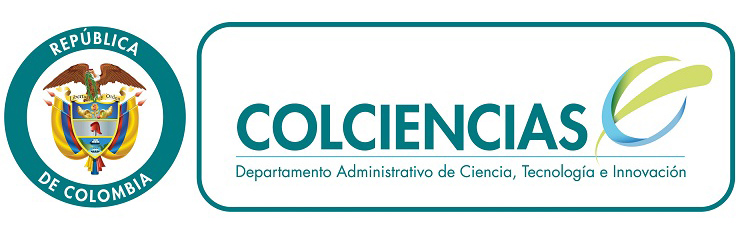
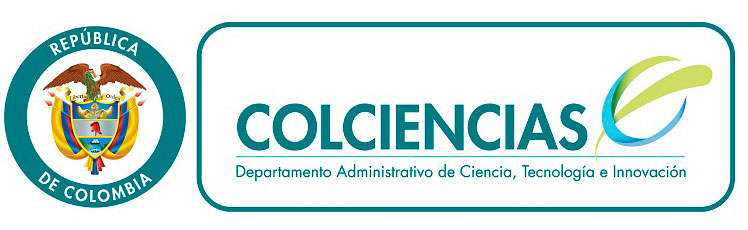
automatización de imagenes pesadas para web

diff --git a/css/personalizado.css b/css/personalizado.css
@@ -472,7 +472,7 @@ font-weight: bold;
 
 .fondo-mundo
 {
-	background-image: url("../img/donde-quieres-estudiar-aunar.png");
+	background-image: url("../img/donde-quieres-estudiar-aunar.jpg");
 	background-size: cover;/*necesario para que se mire en todas las pantallas*/
 
 }

diff --git a/noticias/noticia-1.php b/noticias/noticia-1.php
@@ -44,7 +44,7 @@
         <!-- imagen -->
         
             <div class="col-12">
-              <img class="img-fluid " src="img/noticias/noticia1.png" alt="Noticias Aunar" width="100%">
+              <img class="img-fluid " src="img/noticias/noticia1.jpg" alt="Noticias Aunar" width="100%">
             </div>
         
       </div>
@@ -60,7 +60,7 @@
         <!-- imagen -->
         
             <div class="col-12">
-              <img class="img-fluid " src="img/noticias/noticia2.png" alt="Noticias Aunar" width="100%">
+              <img class="img-fluid " src="img/noticias/noticia2.jpg" alt="Noticias Aunar" width="100%">
             </div>
         
       </div>
@@ -103,7 +103,7 @@
         <!-- imagen -->
         
             <div class="col-12">
-              <img class="img-fluid " src="img/noticias/noticia3.png" alt="Noticias Aunar" width="100%">
+              <img class="img-fluid " src="img/noticias/noticia3.jpg" alt="Noticias Aunar" width="100%">
             </div>
         
       </div>
@@ -119,7 +119,7 @@
         <!-- imagen -->
         
             <div class="col-12">
-              <img class="img-fluid " src="img/noticias/noticia4.png" alt="Noticias Aunar" width="100%">
+              <img class="img-fluid " src="img/noticias/noticia4.jpg" alt="Noticias Aunar" width="100%">
             </div>
         
       </div>

diff --git a/index.php b/index.php
@@ -185,7 +185,7 @@
     <div class="col-lg-12 p-5 ">
       <div class="row p-3 ">
         <div class="col-md-6 p-2  border-right border-white fondo-gris-os  hvr-grow-shadow izquierda_derecha">
-          <div class="col p-2 text-center "><img class="img-fluid" width="100%" alt="AUNAR ESTEREO" src="img/aunar_stereo.png"/></div>
+          <div class="col p-2 text-center "><img class="img-fluid" width="100%" alt="AUNAR ESTEREO" src="img/aunar_stereo.jpg"/></div>
           <div class=" texto-azul text-center ">
             <div class="row">
                 <div class="col-12 mb-0 p-0 fuente-institucional ">AUNAR STEREO</div>

diff --git a/inscripciones.php b/inscripciones.php
@@ -18,7 +18,7 @@
 	<div class="container-fluid">
 		<div class="row">
 			<div class="col-12">
-				<img class="img-fluid" width="100%" src="img/inscripciones/sistema-inscripciones-en-linea.png"/>
+				<img class="img-fluid" width="100%" src="img/inscripciones/sistema-inscripciones-en-linea.jpg"/>
 			</div>
 		</div>
 	</div>

diff --git a/convocatorias.php b/convocatorias.php
@@ -18,7 +18,7 @@
 	<div class="container-fluid">
 		<div class="row">
 			<div class="col-12">
-				<img class="mx-auto img-fluid" width="100%" src="img/convocatorias/convocatorias-aunar.png"/>
+				<img class="mx-auto img-fluid" width="100%" src="img/convocatorias/convocatorias-aunar.jpg"/>
 			</div>
 		</div>
 	</div>
